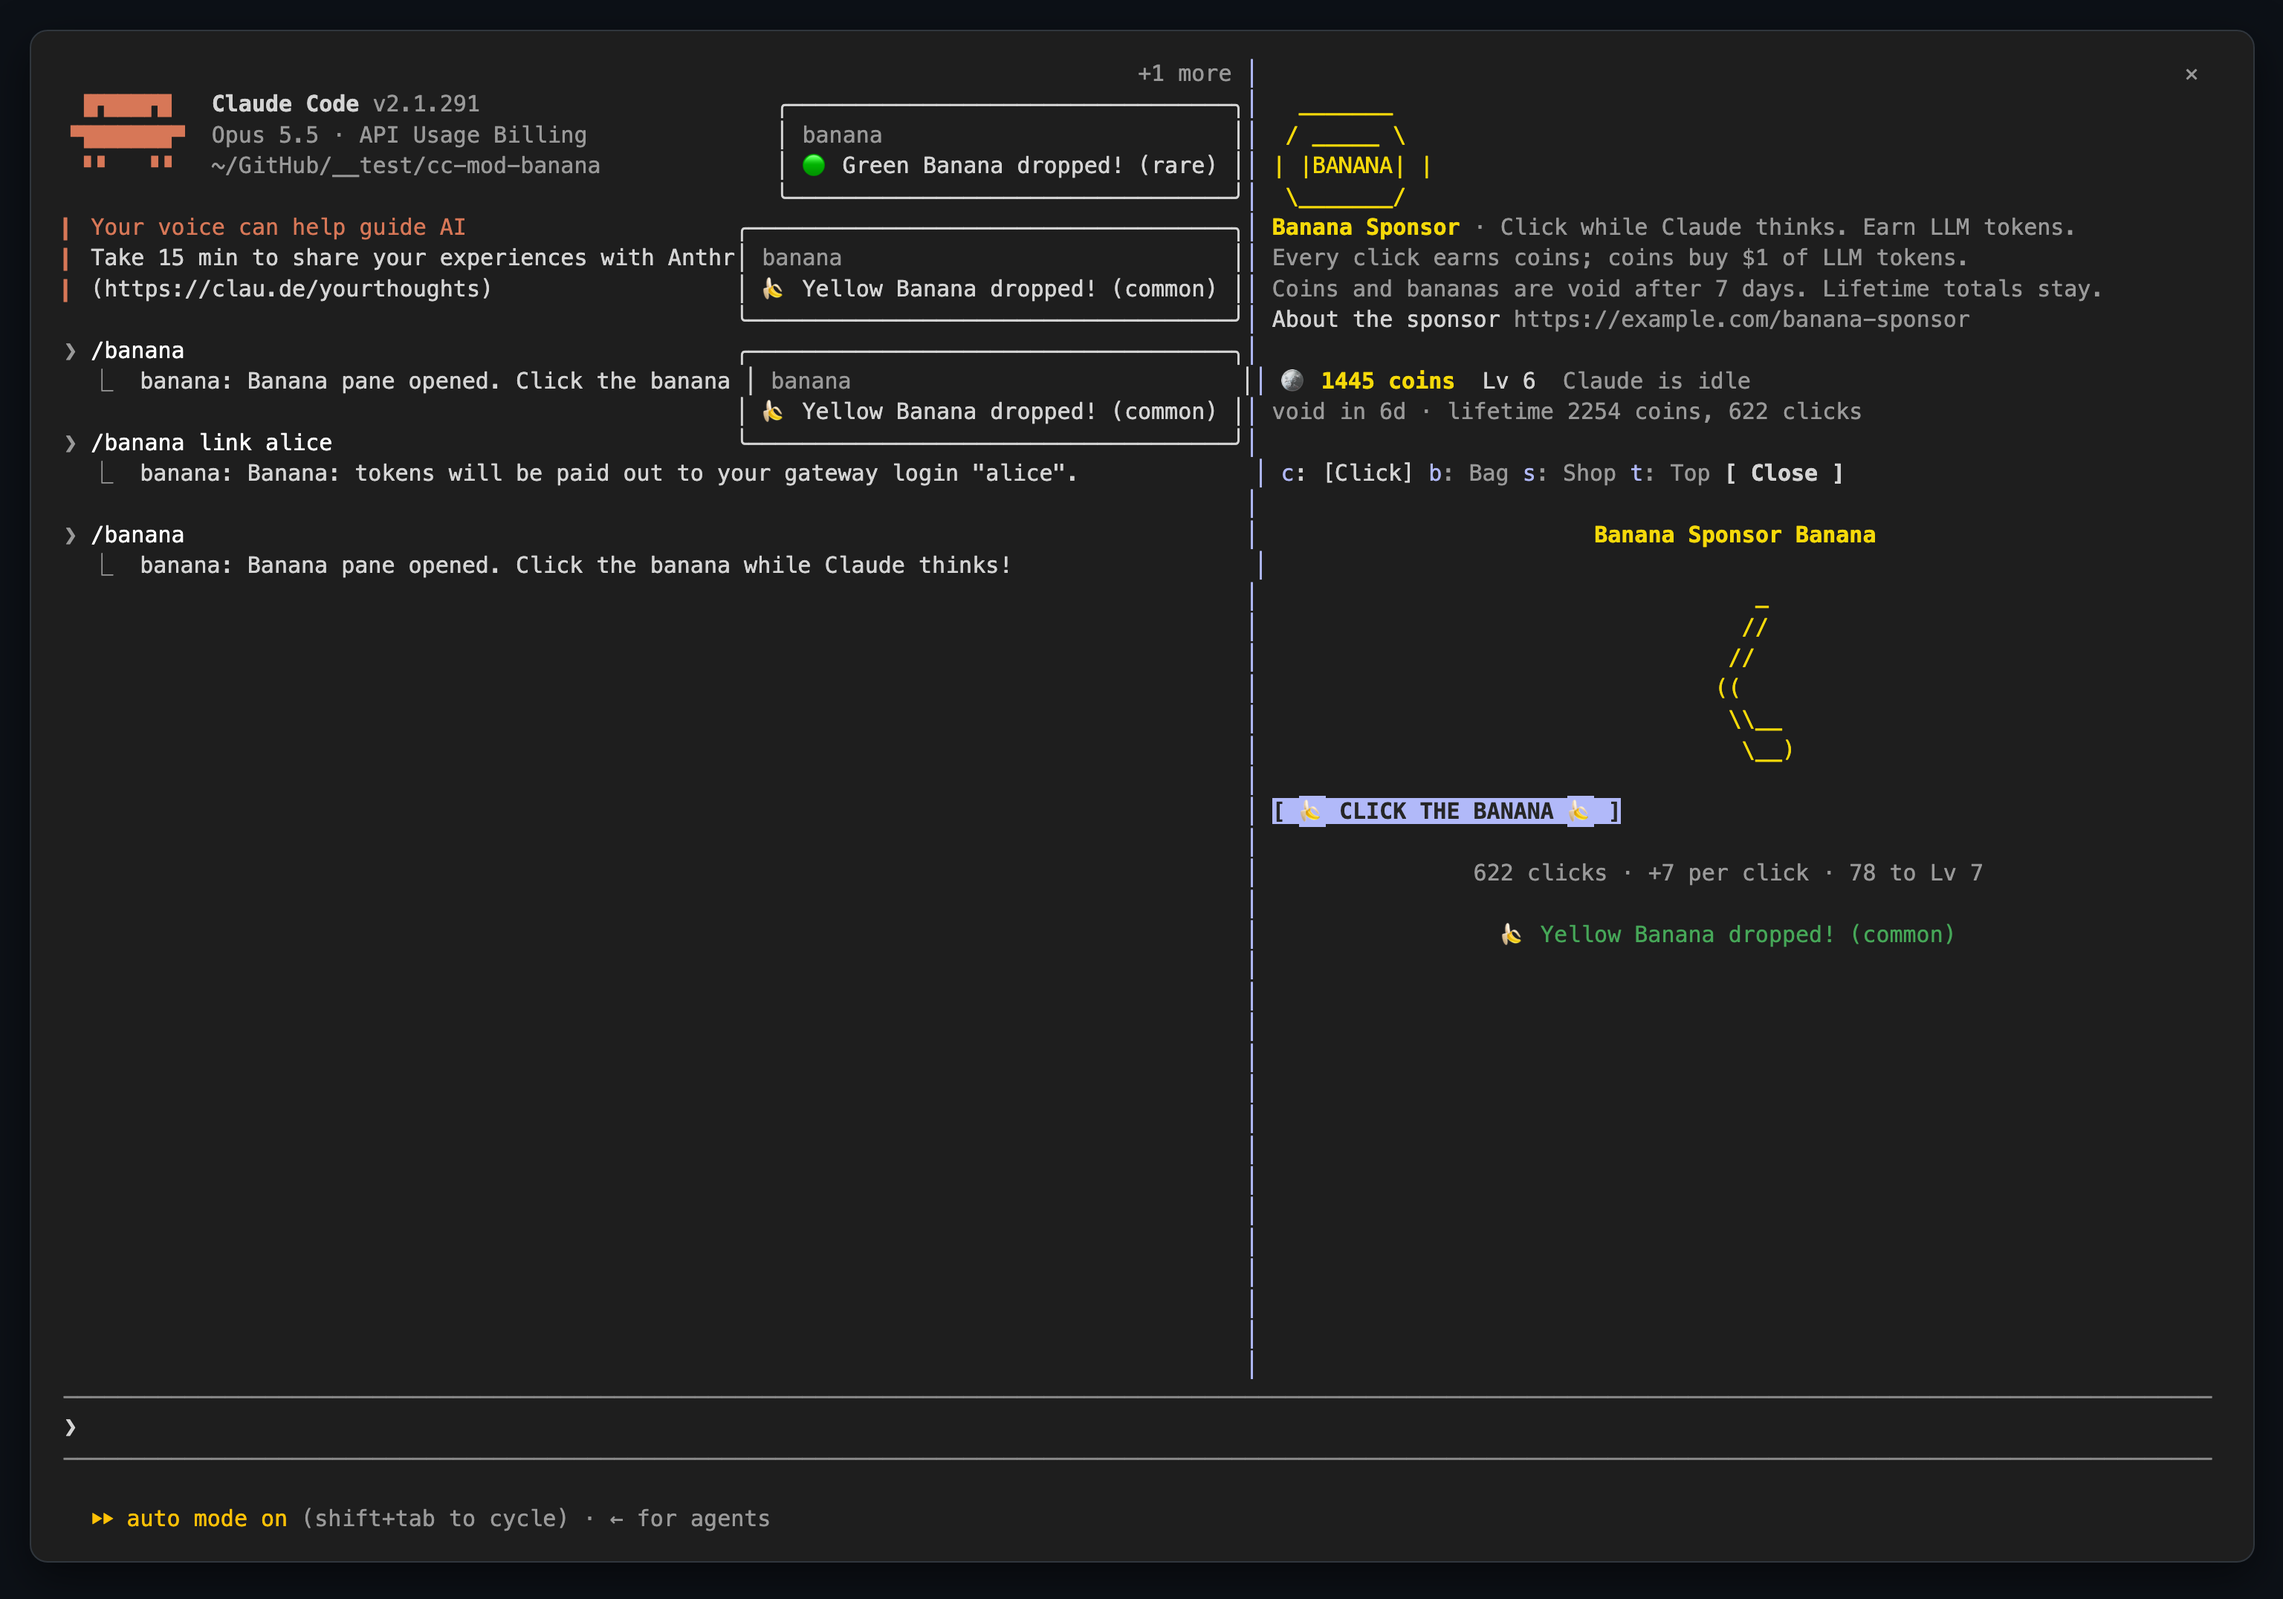
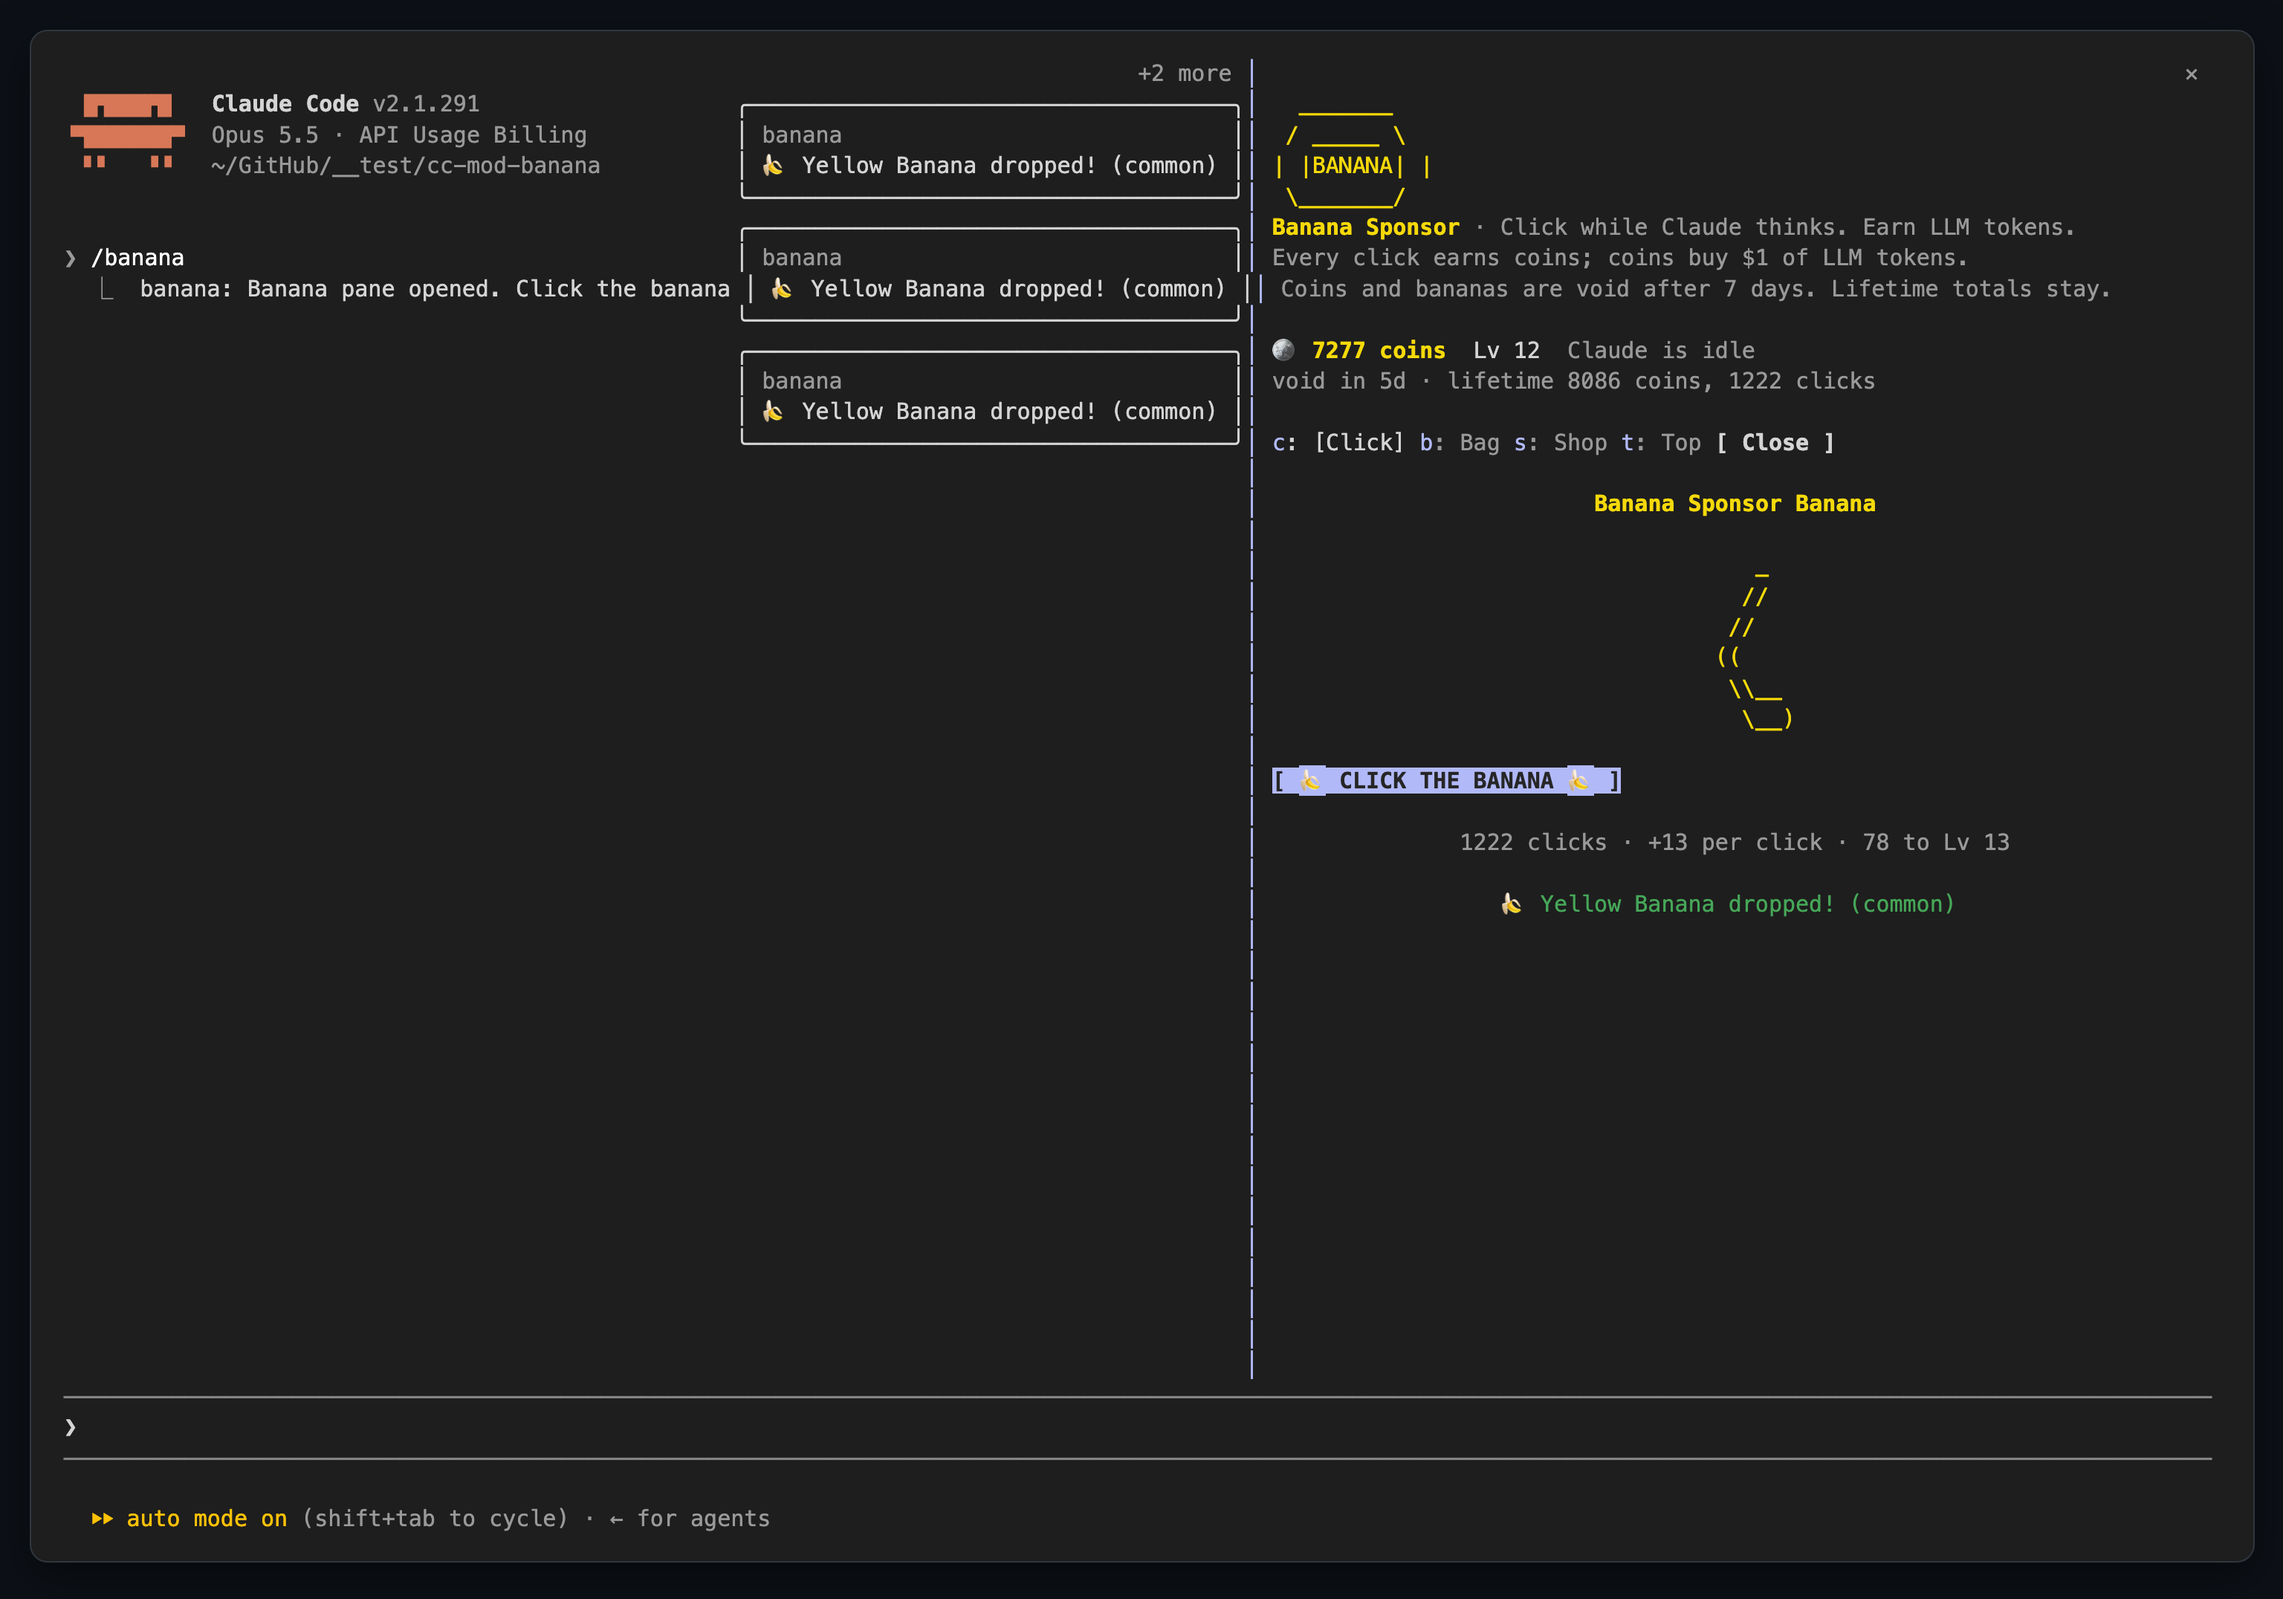
Connect players to the live sponsor server by default
serverUrl and contentUrl now default to the banana server on the VM, so a
fresh clone plays the live economy with no setup. A Link only takes https,
so http addresses from the content are drawn as text instead of refusing
the pane. README screenshots re-captured against the new content; the
README tells players where to register and how to link.

diff --git a/hooks/banana.test.ts b/hooks/banana.test.ts
@@ -83,7 +83,9 @@ const seq = (...values: number[]) => {
   return () => values[i++] ?? 0.99
 }
 
-const CONTENT_OPTS = { options: { contentUrl: 'https://example.test/content.json' } }
+/** Tests get the manifest defaults (the live server) unless they say otherwise. */
+const OFFLINE = { options: { serverUrl: '', contentUrl: '' } }
+const CONTENT_OPTS = { options: { contentUrl: 'https://example.test/content.json', serverUrl: '' } }
 
 const okJson = (data: unknown) => ({ value: { status: 200, ok: true, headers: {}, text: JSON.stringify(data) } })
 
@@ -208,7 +210,7 @@ test('parseContent refuses a document without the required fields and fills the 
 
 // ---- the pane -------------------------------------------------------------------
 
-test('clicking the banana earns coins on every surface', async ($, on) => {
+test('clicking the banana earns coins on every surface', OFFLINE, async ($, on) => {
   stubs(on)
   for (const surface of SURFACES) {
     const ui = await $.ui.mount({ plugin: 'banana', surface, component: 'Pane', props: PANE_PROPS, requestId: 'banana' })
@@ -222,7 +224,7 @@ test('clicking the banana earns coins on every surface', async ($, on) => {
   }
 })
 
-test('tabs switch the body and the shop lists the gifts', async ($, on) => {
+test('tabs switch the body and the shop lists the gifts', OFFLINE, async ($, on) => {
   stubs(on)
   const ui = await $.ui.mount({ plugin: 'banana', surface: 'terminal', component: 'Pane', props: PANE_PROPS, requestId: 'banana' })
   await ui.press({ key: 'tab-shop' })
@@ -259,7 +261,7 @@ test('a shared-code gift from hosted content can be redeemed offline and the cla
   await ui.unmount()
 })
 
-test('the pane opens when a turn starts and closes when it completes', async ($, on) => {
+test('the pane opens when a turn starts and closes when it completes', OFFLINE, async ($, on) => {
   const log = stubs(on)
   await $.turn.start({ text: 'hi', turnId: 't1' })
   expect(log.opened).toContain('banana')
@@ -267,7 +269,7 @@ test('the pane opens when a turn starts and closes when it completes', async ($,
   expect(log.closed).toContain('banana')
 })
 
-test('a subagent finishing does not close the pane', async ($, on) => {
+test('a subagent finishing does not close the pane', OFFLINE, async ($, on) => {
   const log = stubs(on)
   await $.turn.start({ text: 'hi', turnId: 't1' })
   await $.turn.complete({ answer: 'sub', durationMs: 1, isAborted: false, turnId: 't2', agentId: 'a1', reason: 'answer' })
@@ -309,7 +311,7 @@ test('an unreachable content URL falls back to the cached copy', CONTENT_OPTS, a
   await ui.unmount()
 })
 
-test('a gateway gift without a linked login tells the player to register', { options: { serverUrl: 'https://banana.example.test' } }, async ($, on) => {
+test('a gateway gift without a linked login tells the player to register', { options: { serverUrl: 'https://banana.example.test', contentUrl: '' } }, async ($, on) => {
   stubs(on, { save: earn(emptySave(), 9000, '2026-10-06T00:00:00.000Z'), playerId: 'p-2' })
   on('http.fetch', () => okJson({ ok: true }))
   await $.session.start(SESSION)
@@ -320,11 +322,45 @@ test('a gateway gift without a linked login tells the player to register', { opt
   await ui.unmount()
 })
 
+test('an http registration link is drawn as text, not refused', CONTENT_OPTS, async ($, on) => {
+  stubs(on)
+  const hosted: Content = { ...DEFAULT_CONTENT, gateway: { name: 'Test gateway', url: 'http://4.194.42.84:3000/register' } }
+  on('http.fetch', () => okJson(hosted))
+  await $.session.start(SESSION)
+  for (const surface of SURFACES) {
+    const ui = await $.ui.mount({ plugin: 'banana', surface, component: 'Pane', props: PANE_PROPS, requestId: 'banana' })
+    await ui.press({ key: 'tab-shop' })
+    expect(await ui.find({ type: 'Text', text: 'http://4.194.42.84:3000/register' })).toBeDefined()
+    const links = await ui.findAll({ type: 'Link' })
+    expect(links.some(l => String(l.props.href ?? '').startsWith('http://'))).toBe(false)
+    await ui.unmount()
+  }
+})
+
+test('with no settings, a new player talks to the sponsor server', async ($, on) => {
+  stubs(on)
+  const urls: string[] = []
+  on('http.fetch', (_, e) => {
+    urls.push(e.url)
+    if (e.url.endsWith('/content')) return okJson(DEFAULT_CONTENT)
+    if (e.url.endsWith('/rate')) return okJson({ coinsPerUsd: 777, windowCoins: 7770, budgetUnits: 10 })
+    return okJson({ ok: true, '\u006clm-tokens': 10 })
+  })
+  await $.session.start(SESSION)
+  const ui = await $.ui.mount({ plugin: 'banana', surface: 'terminal', component: 'Pane', props: PANE_PROPS, requestId: 'banana' })
+  await ui.press({ key: 'tab-shop' })
+  expect(urls, JSON.stringify(urls)).toContain('http://4.194.42.84:8787/hello')
+  expect(urls, JSON.stringify(urls)).toContain('http://4.194.42.84:8787/content')
+  expect(await ui.find({ type: 'Text', text: /Rate: \$1 = 777 coins/ })).toBeDefined()
+  expect(await ui.find({ type: 'Text', text: 'http://4.194.42.84:3000/register' })).toBeDefined()
+  await ui.unmount()
+})
+
 // ---- the server -------------------------------------------------------------------
 
 test(
   'with a server, clicks are reported as deltas, the rate comes back, and redeem takes the server code',
-  { options: { serverUrl: 'https://banana.example.test' } },
+  { options: { serverUrl: 'https://banana.example.test', contentUrl: '' } },
   async ($, on) => {
     const rich: Save = earn(emptySave(), 6000, '2026-10-06T00:00:00.000Z')
     const log = stubs(on, { save: rich, playerId: 'p-1', name: 'Tester', gateway: 'tester@gw' })

diff --git a/hooks/register.tsx b/hooks/register.tsx
@@ -82,6 +82,24 @@ const now = () => new Date().toISOString()
 const pct = (chance: number) => `${Math.round(chance * 10000) / 100}%`
 const bagWorth = (s: Save, c: Content) => s.inventory.reduce((sum, d) => sum + sellValueOf(c, d.kindId), 0)
 const reason = (err: unknown) => (err instanceof Error ? err.message : String(err))
+/**
+ * A `Link` takes only https (or http://localhost) and refuses the whole tree
+ * otherwise, so any other address from the content is shown as plain text.
+ */
+const isLinkable = (href: string) => /^https:\/\//i.test(href) || /^http:\/\/localhost(:\d+)?(\/|$)/i.test(href)
+
+// eslint-disable-next-line @typescript-eslint/no-explicit-any
+function linkOrText(Link: any, Text: any, href: string, label: string) {
+  return isLinkable(href) ? (
+    <Link href={href} label={label} />
+  ) : (
+    <Text>
+      <Text>{`${label} `}</Text>
+      <Text underline color="cyan">{href}</Text>
+    </Text>
+  )
+}
+
 const days = (ms: number) => {
   const d = ms / 86400000
   return d >= 1 ? `${Math.floor(d)}d` : `${Math.max(1, Math.floor(ms / 3600000))}h`
@@ -265,7 +283,7 @@ export const register: Register = (on, options) => {
           ) : (
             <Box flexDirection="column">
               <Text color="yellow">{`No gateway login linked. ${c.gateway?.hint ?? 'Register on the sponsor gateway, then run /banana link <your username>.'}`}</Text>
-              {c.gateway?.url ? <Link href={c.gateway.url} label={`Register on ${c.gateway.name}`} /> : null}
+              {c.gateway?.url ? linkOrText(Link, Text, c.gateway.url, `Register on ${c.gateway.name}`) : null}
             </Box>
           )}
           {c.gifts.map((gift, i) => {
@@ -338,7 +356,7 @@ export const register: Register = (on, options) => {
           {(c.sponsor.lines ?? []).map(line => (
             <Text dimColor>{line}</Text>
           ))}
-          {c.sponsor.url ? <Link href={c.sponsor.url} label={c.sponsor.urlLabel ?? c.sponsor.url} /> : null}
+          {c.sponsor.url ? linkOrText(Link, Text, c.sponsor.url, c.sponsor.urlLabel ?? c.sponsor.url) : null}
         </Box>
         <Box flexDirection="column">
           <Box gap={2}>

diff --git a/hooks/catalog.ts b/hooks/catalog.ts
@@ -18,8 +18,6 @@ export const DEFAULT_CONTENT: Content = {
       ' \\_______/ ',
     ],
     lines: ['Every click earns coins; coins buy $1 of LLM tokens.', 'Coins and bananas are void after 7 days. Lifetime totals stay.'],
-    url: 'https://example.com/banana-sponsor',
-    urlLabel: 'About the sponsor',
   },
   banana: {
     name: 'Banana Sponsor Banana',
@@ -47,8 +45,8 @@ export const DEFAULT_CONTENT: Content = {
   economy: DEFAULT_ECONOMY,
   gateway: {
     name: 'Banana Sponsor gateway',
-    url: 'https://example.com/gateway',
-    hint: 'Register, then run /banana link <your username> here.',
+    url: 'http://4.194.42.84:3000/register',
+    hint: 'Register there, then run /banana link <your username> here.',
   },
   notes: 'Edit content.json and bump minVersion when the game needs a newer mod.',
 }

diff --git a/README.md b/README.md
@@ -12,7 +12,7 @@ Banana is a mod for Claude Code. Every time Claude starts thinking, a banana pop
 
 - **Waiting pays.** Every turn Claude spends thinking is a few hundred clicks you can cash in.
 - **Rare drops.** Each click can drop a banana: 🍌 common, 🟢 rare, 🔵 epic, or the ⭐ Golden Banana at 1 in 2,000.
-- **Real rewards.** Coins buy **$1 of LLM tokens**, topped up straight onto your account on the sponsor's gateway.
+- **Real rewards.** Coins buy **$1 of LLM tokens**, topped up straight onto your account on the sponsor's gateway. No setup: the mod is already connected.
 - **A live leaderboard.** See how many bananas everyone has clicked this week, and where you rank.
 - **It stays out of the way.** The pane opens when Claude thinks and closes when Claude answers. Nothing touches your code or your conversation.
 
@@ -82,24 +82,15 @@ Type `/banana` to open the pane right away, or just ask Claude something: the ba
 - **Glory is forever.** Your lifetime clicks and coins never expire, and the leaderboard ranks lifetime coins.
 - **Saved on your machine.** Progress lives in Claude Code's plugin store and survives restarts.
 
-## Join the live economy
+## Get your tokens
 
-Out of the box the game runs single-player: you can click, collect and see prices, but redeeming tokens needs the sponsor's server. Connect it once in `~/.claude/settings.json` with the two URLs the sponsor publishes:
+The mod connects to the sponsor's server on its own; there is nothing to configure. To be paid, you need an account on the sponsor's LLM gateway:
 
-```json
-{
-  "pluginConfigs": {
-    "banana": {
-      "options": {
-        "serverUrl": "https://banana.example.com",
-        "contentUrl": "https://banana.example.com/content"
-      }
-    }
-  }
-}
-```
+1. Register at **http://4.194.42.84:3000/register** (the Shop shows the same link).
+2. In Claude Code, type `/banana link <your username>`.
+3. Redeem in the Shop. The $1 of tokens lands on that account, ready to use through the gateway like any API key.
 
-The same two fields appear under the plugin's settings in `/config`.
+Prefer to play offline? Set **Server URL** and **Content URL** to empty under the plugin's settings in `/config`.
 
 ## Use it in the Claude desktop app
 
@@ -122,7 +113,7 @@ When the sponsor ships something that needs a newer mod (a new kind of banana, s
 
 ## What it sends
 
-Only game data, and only when a server is set: a random player id made on your machine, click and coin counts, your leaderboard name and gateway login if you set them, the mod version, and whether you play in the terminal or the desktop app. Never your prompts, code, files or conversation.
+Only game data, to the sponsor's server: a random player id made on your machine, click and coin counts, your leaderboard name and gateway login if you set them, the mod version, and whether you play in the terminal or the desktop app. Never your prompts, code, files or conversation. Empty the **Server URL** setting and nothing is sent.
 
 ---
 
